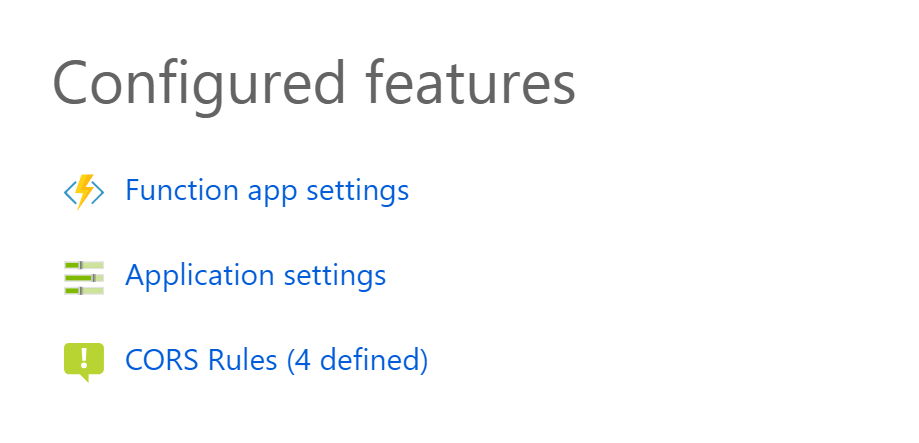
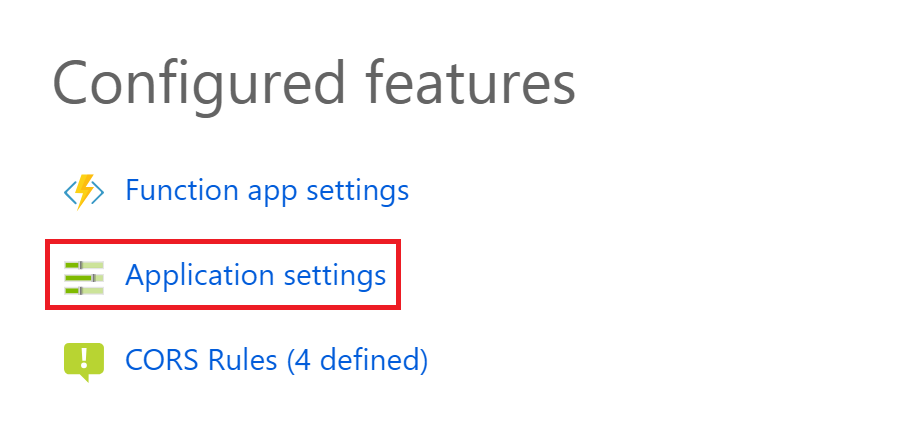
Remove app service reference from service bus

Changed region(s): [[0.0305, 0.5282, 0.457, 0.7043]]

diff --git a/07-messaging-service-bus.md b/07-messaging-service-bus.md
@@ -2,10 +2,14 @@
 
 In this exercise we will use Azure Service Bus to publish and subscribe to an "Order Placed" event message from the customer lunch ordering interface.
 
+This exercise builds on the serverless app created in exercise 6.
+
+<!--
 > This exercise builds on the App Service created in exercise 4. If you did not complete it or made potentially breaking changes to the configuration you can run the following script to delete any resources you have and recreate the app:
 > ```powershell
 > c:\azuretraining\web-apps-powershell\complete.ps1
 > ```
+-->
 
 ## Create an Azure Service Bus namespace
 
@@ -69,7 +73,7 @@ The customer interface website deployed to Azure App Services will publish an "O
     
         ![connection-info](./images/service-bus-connection-info.png)
 
-15. Navigate to your Function App in the portal. Under "Configured Features" click on **Application settings**. 
+15. Navigate to your Function App in the portal. Under **Configured Features** click on **Application settings**. 
 
     ![App Settings](images/function-app-settings.png)
 
